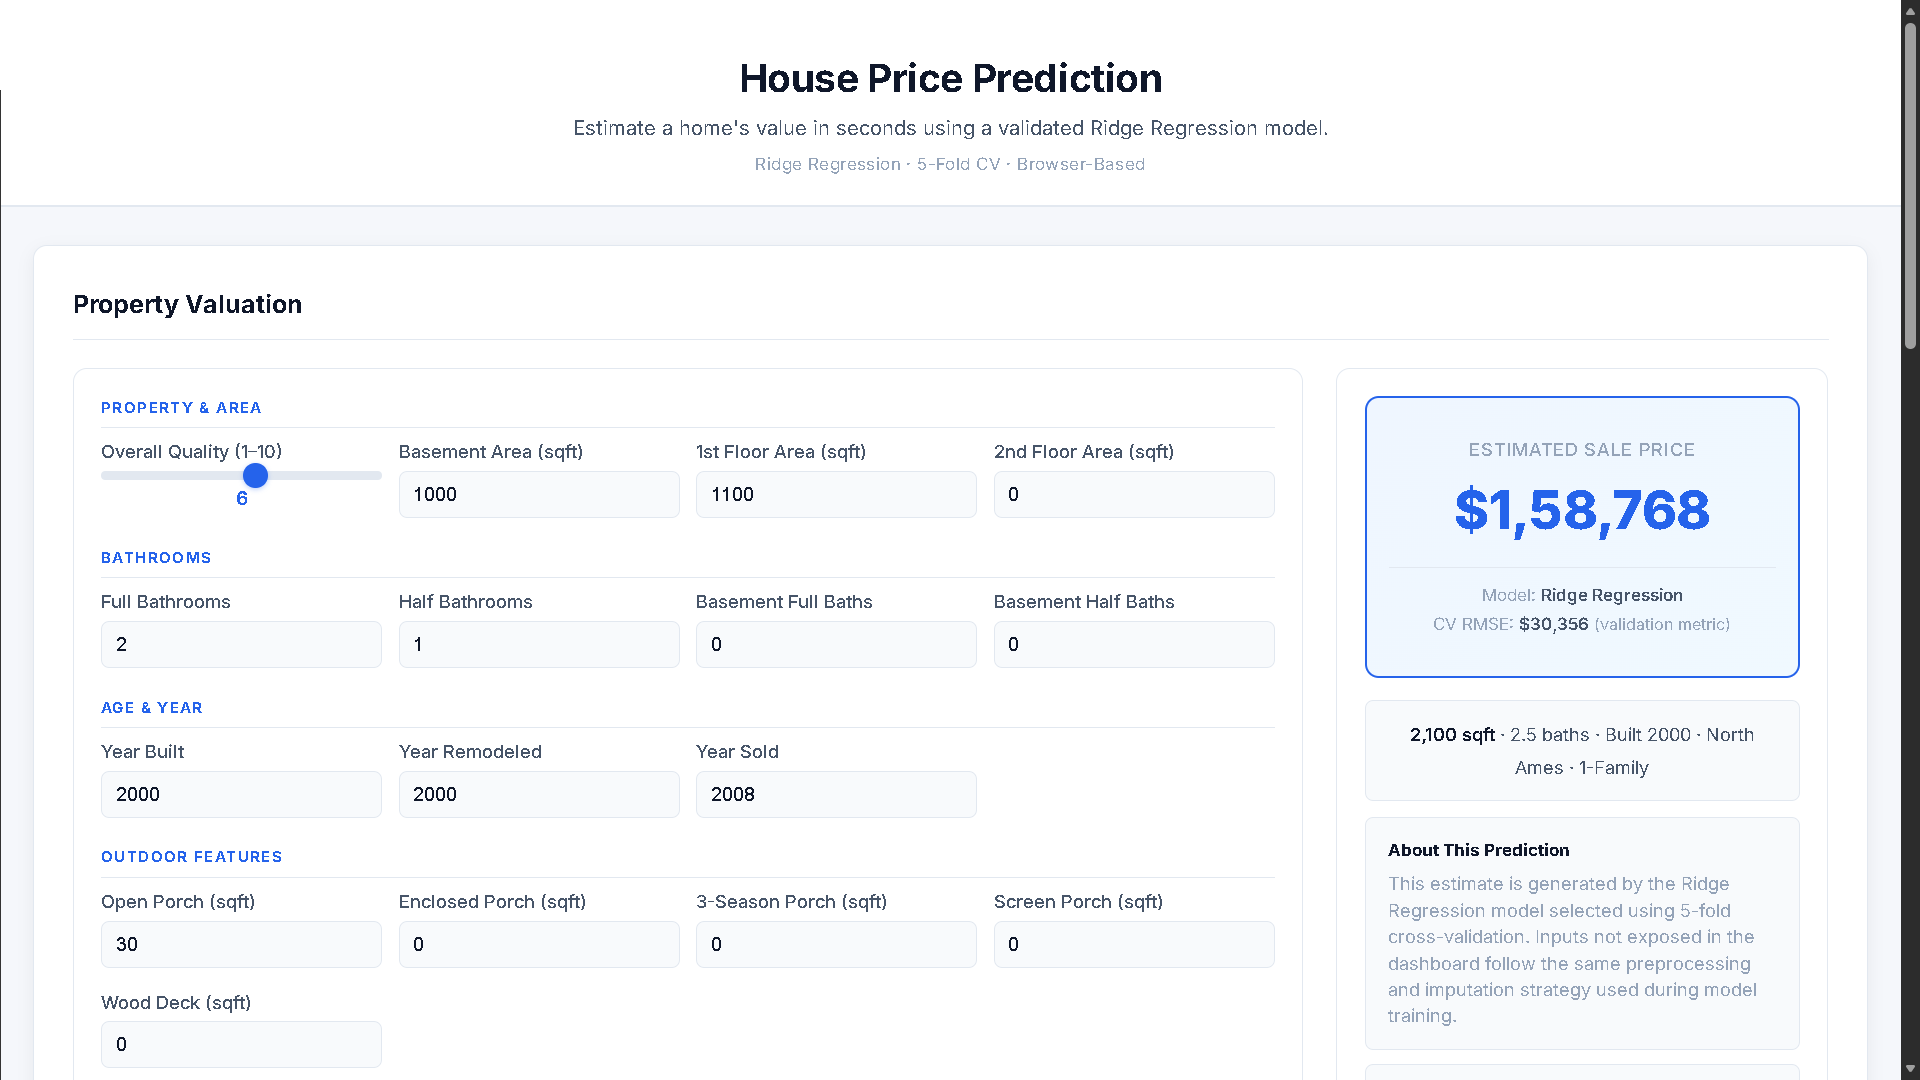
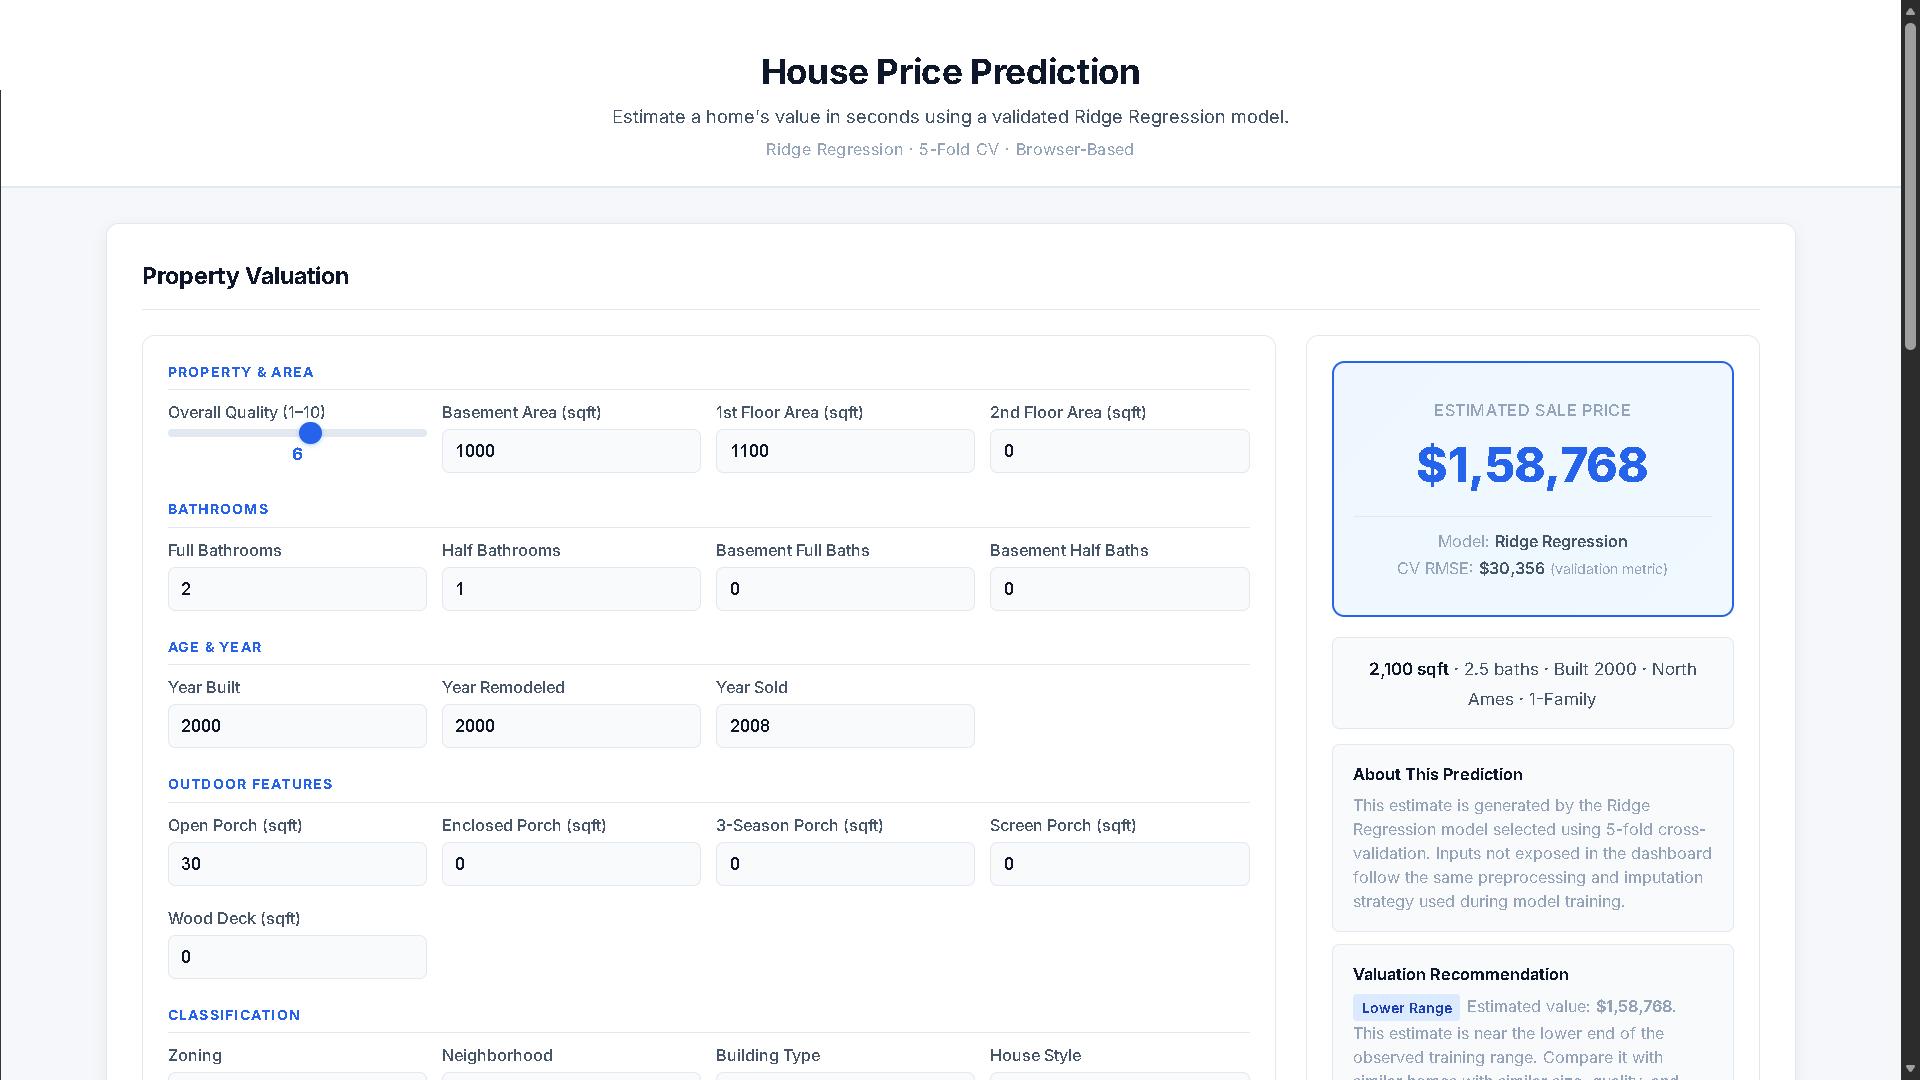
Add Clear Inputs and 4 Demo Scenarios to dashboard
- Add Clear Inputs button: clears all form inputs to empty/neutral state, resets validation and prediction
- Add 4 preset scenarios: Typical Home, Premium Home, Budget/Older, Large Home
- Scenarios populate exposed inputs; user clicks Predict Price to generate estimate
- Stale predictions cleared on scenario load or clear inputs
- Scenario loaded feedback toast
- Responsive design for all breakpoints
- Updated README, executive_summary.md, detailed_project_report.md

diff --git a/docs/app.js b/docs/app.js
@@ -63,6 +63,12 @@ document.addEventListener('DOMContentLoaded', async () => {
         modelData = await resp.json();
         document.getElementById('predictBtn').addEventListener('click', onPredictClick);
         document.getElementById('resetBtn').addEventListener('click', resetToDefaults);
+        document.getElementById('clearBtn').addEventListener('click', clearInputs);
+        document.querySelectorAll('.scenario-btn').forEach(btn => {
+            btn.addEventListener('click', function() {
+                loadScenario(this.dataset.scenario);
+            });
+        });
         setupValidation();
         predict();
         renderModelTable();
@@ -161,6 +167,30 @@ function resetToDefaults() {
         if (el) el.value = val;
     });
     document.getElementById('overallQualVal').textContent = DEFAULT_VALUES.overallQual;
+    clearValidationState();
+    clearPredictionState();
+    clearActiveScenario();
+    predict();
+}
+
+function clearInputs() {
+    const ids = Object.keys(DEFAULT_VALUES);
+    ids.forEach(id => {
+        const el = document.getElementById(id);
+        if (!el) return;
+        if (el.tagName === 'SELECT') {
+            el.selectedIndex = 0;
+        } else {
+            el.value = '';
+        }
+    });
+    document.getElementById('overallQualVal').textContent = '5';
+    clearValidationState();
+    clearPredictionState();
+    clearActiveScenario();
+}
+
+function clearValidationState() {
     Object.keys(VALIDATION_RULES).forEach(id => {
         const errEl = document.getElementById('err-' + id);
         if (errEl) errEl.textContent = '';
@@ -169,8 +199,120 @@ function resetToDefaults() {
     });
     const errorEl = document.getElementById('predictionError');
     if (errorEl) errorEl.style.display = 'none';
-    predict();
+    const toast = document.getElementById('successToast');
+    if (toast) toast.style.display = 'none';
 }
+
+function clearPredictionState() {
+    const priceEl = document.getElementById('predictedPrice');
+    if (priceEl) priceEl.textContent = '$0';
+    const summaryEl = document.getElementById('summaryText');
+    if (summaryEl) summaryEl.textContent = '';
+    const valEl = document.getElementById('valuationRecommendation');
+    if (valEl) valEl.style.display = 'none';
+    const warnEl = document.getElementById('extrapolationWarning');
+    if (warnEl) warnEl.style.display = 'none';
+    ['featTotalSF','featTotalBaths','featAgeAtSale','featRemodAge','featQualArea','featPorch'].forEach(id => {
+        const el = document.getElementById(id);
+        if (el) el.textContent = '0';
+    });
+}
+
+function clearActiveScenario() {
+    document.querySelectorAll('.scenario-btn').forEach(btn => btn.classList.remove('active'));
+    const toast = document.getElementById('scenarioToast');
+    if (toast) toast.style.display = 'none';
+}
+
+function showToast(msg, duration) {
+    const toast = document.getElementById('scenarioToast');
+    if (!toast) return;
+    toast.textContent = msg;
+    toast.style.display = 'block';
+    setTimeout(() => { toast.style.display = 'none'; }, duration || 1800);
+}
+
+const SCENARIOS = {
+    typical: {
+        overallQual: 6, totalBsmtSF: 800, firstFlrSF: 850, secondFlrSF: 800,
+        fullBath: 2, halfBath: 1, bsmtFullBath: 1, bsmtHalfBath: 0,
+        yearBuilt: 1990, yearRemodAdd: 1995, yrSold: 2008,
+        openPorchSF: 30, enclosedPorch: 0, ssnPorch: 0, screenPorch: 0, woodDeckSF: 80,
+        overallCond: 5, moSold: 6,
+        msZoning: 'RL', lotShape: 'Reg', landContour: 'Lvl', lotConfig: 'Inside',
+        neighborhood: 'NAmes', condition1: 'Norm', bldgType: '1Fam', houseStyle: '1Story',
+        overallQualCat: '6', overallCondCat: '5',
+        roofStyle: 'Gable', exterior1st: 'VinylSd', exterior2nd: 'VinylSd',
+        masVnrType: 'None', foundation: 'CBlock', heating: 'GasA', centralAir: 'Y',
+        electrical: 'SBrkr', garageType: 'Attchd', garageFinish: 'RFn',
+        saleType: 'WD', saleCondition: 'Normal'
+    },
+    premium: {
+        overallQual: 9, totalBsmtSF: 1400, firstFlrSF: 1500, secondFlrSF: 1200,
+        fullBath: 3, halfBath: 1, bsmtFullBath: 1, bsmtHalfBath: 0,
+        yearBuilt: 2005, yearRemodAdd: 2008, yrSold: 2008,
+        openPorchSF: 80, enclosedPorch: 0, ssnPorch: 0, screenPorch: 0, woodDeckSF: 200,
+        overallCond: 8, moSold: 6,
+        msZoning: 'RL', lotShape: 'Reg', landContour: 'Lvl', lotConfig: 'Corner',
+        neighborhood: 'NoRidge', condition1: 'Norm', bldgType: '1Fam', houseStyle: '2Story',
+        overallQualCat: '9', overallCondCat: '8',
+        roofStyle: 'Hip', exterior1st: 'HdBoard', exterior2nd: 'HdBoard',
+        masVnrType: 'BrkFace', foundation: 'PConc', heating: 'GasA', centralAir: 'Y',
+        electrical: 'SBrkr', garageType: 'Attchd', garageFinish: 'Fin',
+        saleType: 'WD', saleCondition: 'Normal'
+    },
+    budget: {
+        overallQual: 4, totalBsmtSF: 600, firstFlrSF: 700, secondFlrSF: 0,
+        fullBath: 1, halfBath: 0, bsmtFullBath: 0, bsmtHalfBath: 0,
+        yearBuilt: 1955, yearRemodAdd: 1955, yrSold: 2008,
+        openPorchSF: 0, enclosedPorch: 40, ssnPorch: 0, screenPorch: 0, woodDeckSF: 0,
+        overallCond: 4, moSold: 3,
+        msZoning: 'RM', lotShape: 'Reg', landContour: 'Lvl', lotConfig: 'Inside',
+        neighborhood: 'IDOTRR', condition1: 'Norm', bldgType: '1Fam', houseStyle: '1Story',
+        overallQualCat: '4', overallCondCat: '4',
+        roofStyle: 'Gable', exterior1st: 'AsbShng', exterior2nd: 'AsbShng',
+        masVnrType: 'None', foundation: 'CBlock', heating: 'GasA', centralAir: 'N',
+        electrical: 'SBrkr', garageType: 'Detchd', garageFinish: 'Unf',
+        saleType: 'WD', saleCondition: 'Normal'
+    },
+    large: {
+        overallQual: 7, totalBsmtSF: 1200, firstFlrSF: 1600, secondFlrSF: 1500,
+        fullBath: 3, halfBath: 1, bsmtFullBath: 1, bsmtHalfBath: 1,
+        yearBuilt: 1995, yearRemodAdd: 2000, yrSold: 2008,
+        openPorchSF: 60, enclosedPorch: 0, ssnPorch: 0, screenPorch: 0, woodDeckSF: 150,
+        overallCond: 6, moSold: 7,
+        msZoning: 'RL', lotShape: 'IR1', landContour: 'Lvl', lotConfig: 'Inside',
+        neighborhood: 'Somerst', condition1: 'Norm', bldgType: '1Fam', houseStyle: '2Story',
+        overallQualCat: '7', overallCondCat: '6',
+        roofStyle: 'Gable', exterior1st: 'VinylSd', exterior2nd: 'VinylSd',
+        masVnrType: 'None', foundation: 'PConc', heating: 'GasA', centralAir: 'Y',
+        electrical: 'SBrkr', garageType: 'Attchd', garageFinish: 'RFn',
+        saleType: 'WD', saleCondition: 'Normal'
+    }
+};
+
+function loadScenario(name) {
+    const s = SCENARIOS[name];
+    if (!s) return;
+    Object.entries(s).forEach(([id, val]) => {
+        const el = document.getElementById(id);
+        if (el) el.value = val;
+    });
+    const qualSlider = document.getElementById('overallQual');
+    if (qualSlider) qualSlider.value = s.overallQual;
+    document.getElementById('overallQualVal').textContent = s.overallQual;
+    clearValidationState();
+    clearPredictionState();
+    document.querySelectorAll('.scenario-btn').forEach(btn => btn.classList.remove('active'));
+    const activeBtn = document.querySelector('.scenario-btn[data-scenario="' + name + '"]');
+    if (activeBtn) activeBtn.classList.add('active');
+    showToast('Scenario loaded');
+}
+
+document.getElementById('overallQual').addEventListener('input', function() {
+    document.getElementById('overallQualVal').textContent = this.value;
+    this.setAttribute('aria-valuenow', this.value);
+});
 
 function engineerFeatures(inputs) {
     const totalSF = inputs.firstFlrSF + inputs.secondFlrSF + inputs.totalBsmtSF;

diff --git a/docs/style.css b/docs/style.css
@@ -233,6 +233,69 @@ body {
     outline-offset: 2px;
 }
 
+.clear-btn {
+    padding: 12px 18px;
+    background: var(--bg-input);
+    color: var(--text-secondary);
+    border: 1px solid var(--border);
+    border-radius: var(--radius-sm);
+    font-size: 0.85rem;
+    font-weight: 500;
+    cursor: pointer;
+    transition: background 0.15s, border-color 0.15s;
+    white-space: nowrap;
+    min-height: 46px;
+}
+.clear-btn:hover { background: var(--border); border-color: #CBD5E1; }
+.clear-btn:focus-visible {
+    outline: 2px solid var(--accent-blue);
+    outline-offset: 2px;
+}
+
+.scenario-section {
+    margin-top: 14px;
+    padding: 12px 14px;
+    background: var(--bg-input);
+    border: 1px solid var(--border);
+    border-radius: var(--radius-sm);
+}
+.scenario-label {
+    display: block;
+    font-size: 0.78rem;
+    font-weight: 600;
+    color: var(--text-primary);
+    margin-bottom: 8px;
+}
+.scenario-row {
+    display: flex;
+    gap: 8px;
+    flex-wrap: wrap;
+}
+.scenario-btn {
+    padding: 7px 12px;
+    background: #FFFFFF;
+    color: var(--text-secondary);
+    border: 1px solid var(--border);
+    border-radius: var(--radius-sm);
+    font-size: 0.78rem;
+    font-weight: 500;
+    cursor: pointer;
+    transition: background 0.15s, border-color 0.15s, color 0.15s;
+    white-space: nowrap;
+}
+.scenario-btn:hover { background: #EFF6FF; border-color: #BFDBFE; color: var(--accent-blue); }
+.scenario-btn:focus-visible {
+    outline: 2px solid var(--accent-blue);
+    outline-offset: 2px;
+}
+.scenario-btn.active { background: #EFF6FF; border-color: var(--accent-blue); color: var(--accent-blue); }
+.scenario-toast {
+    margin-top: 8px;
+    font-size: 0.75rem;
+    color: #16A34A;
+    font-weight: 500;
+}
+
 .kpi-card {
     text-align: center;
     padding: 28px 16px;
@@ -527,11 +590,13 @@ body {
     .input-section-label { margin: 14px 0 6px; }
 
     .btn-row { flex-direction: column; }
-    .predict-btn, .reset-btn {
+    .predict-btn, .reset-btn, .clear-btn {
         width: 100%;
         min-height: 48px;
         font-size: 1rem;
     }
+    .scenario-row { gap: 6px; }
+    .scenario-btn { flex: 1 1 calc(50% - 6px); min-height: 38px; }
 
     .kpi-card { padding: 22px 14px; }
     .kpi-value { font-size: 1.9rem; }
@@ -559,7 +624,7 @@ body {
         min-height: 48px;
         font-size: 16px;
     }
-    .predict-btn, .reset-btn { min-height: 50px; }
+    .predict-btn, .reset-btn, .clear-btn { min-height: 50px; }
     .kpi-value { font-size: 1.7rem; }
     .chart-wrapper canvas { max-height: 240px !important; }
 }

diff --git a/docs/index.html b/docs/index.html
@@ -219,11 +219,22 @@
                             </select>
                         </div>
                     </div>
+                    <div class="scenario-section">
+                        <span class="scenario-label">Try a Scenario</span>
+                        <div class="scenario-row">
+                            <button class="scenario-btn" data-scenario="typical" type="button">Typical Home</button>
+                            <button class="scenario-btn" data-scenario="premium" type="button">Premium Home</button>
+                            <button class="scenario-btn" data-scenario="budget" type="button">Budget / Older</button>
+                            <button class="scenario-btn" data-scenario="large" type="button">Large Home</button>
+                        </div>
+                        <div id="scenarioToast" class="scenario-toast" style="display:none;" aria-live="polite">Scenario loaded</div>
+                    </div>
                     <div class="btn-row">
                         <button id="predictBtn" class="predict-btn" type="button" aria-label="Predict price">
                             <span class="btn-label">Predict Price</span>
                             <span class="btn-loading" aria-hidden="true">Predicting&hellip;</span>
                         </button>
+                        <button id="clearBtn" class="clear-btn" type="button" aria-label="Clear all inputs">Clear Inputs</button>
                         <button id="resetBtn" class="reset-btn" type="button" aria-label="Reset to example values">Reset Example</button>
                     </div>
                 </div>

diff --git a/README.md b/README.md
@@ -21,6 +21,8 @@
 **House Price Prediction using Regression Models** is a portfolio-grade ML platform that predicts residential property sale prices using supervised regression on the Ames Housing Dataset (1,460 records, 79 predictors).
 It achieves a **CV RMSE of $30,356** and **R² of 0.835** on the held-out test set (10/10 tests passing) while operating as a **serverless GitHub Pages deployment** with **zero-cost static hosting** and **100% in-browser inference**.
 
+The dashboard features **4 preset demo scenarios** (Typical Home, Premium Home, Budget/Older, Large Home) for quick exploration, **Clear Inputs** for form reset, and **Reset Example** for deterministic example values.
+
 [**Live Dashboard**](https://girishshenoy16.github.io/House-Price-Prediction-using-Regression-Models/) | [**Project Report**](reports/detailed_project_report.md) | [**Executive Summary**](reports/executive_summary.md)
 
 </div>
@@ -101,6 +103,8 @@ This system predicts residential property sale prices from structural and catego
 | Section              | Features                                                                                                                              |
 |----------------------|---------------------------------------------------------------------------------------------------------------------------------------|
 | **Predict Price**    | Interactive input form, inline validation, loading state, dynamic property summary, engineered feature display, extrapolation warning, valuation recommendation |
+| **Try a Scenario**   | 4 preset scenarios (Typical Home, Premium Home, Budget/Older, Large Home) with "Scenario loaded" feedback                              |
+| **Actions**          | Predict Price (primary), Clear Inputs (secondary), Reset Example (secondary)                                                          |
 | **Model Comparison** | 5-model performance table with selected model badge, CV and holdout metrics                                                           |
 | **Visualizations**   | Actual vs Predicted scatter (292 Ridge holdout points), Price vs Living Area with trend line, Top Ridge Feature Effects bar chart     |
 

diff --git a/reports/detailed_project_report.md b/reports/detailed_project_report.md
@@ -122,6 +122,26 @@ A 3-section Power BI-style executive dashboard deployed via GitHub Pages:
 2. **Model Performance** — Benchmark comparison table and Actual vs Predicted scatter plot
 3. **Housing Insights** — Feature importance chart and price metrics visualization
 
+### Demo Scenarios
+
+Four preset scenarios enable quick demonstration of model behavior across different property profiles:
+
+| Scenario | Purpose | Key Characteristics |
+|----------|---------|---------------------|
+| **Typical Home** | Mid-range family property | Overall Quality 6, moderate area, 2 full baths, built 1990 |
+| **Premium Home** | Higher quality & larger space | Overall Quality 9, large area, 3 full baths, built 2005 |
+| **Budget / Older** | Lower-value older profile | Overall Quality 4, smaller area, 1 full bath, built 1955 |
+| **Large Home** | Size sensitivity example | Overall Quality 7, 4,300 sqft total, built 1995 |
+
+Scenarios populate all exposed inputs. Users click **Predict Price** to generate the estimate. Scenario selection clears stale predictions and validation state.
+
+### Clear Inputs vs Reset Example
+
+| Action | Behavior |
+|--------|----------|
+| **Clear Inputs** | Clears all form inputs to empty state, resets validation/errors/prediction to neutral |
+| **Reset Example** | Restores the deterministic realistic example property and triggers a prediction |
+
 ### Valuation Recommendation
 
 A compact decision-support component that provides context about the prediction based on where it falls within the observed training-price range ($34,900–$755,000). The recommendation is generated deterministically from the browser prediction and training metadata — no external data or backend required.

diff --git a/reports/executive_summary.md b/reports/executive_summary.md
@@ -45,7 +45,7 @@ Browser-side JavaScript inference
 - **Platform:** GitHub Pages (`/docs` directory)
 - **Inference:** Client-side JavaScript, no backend required
 - **Model artifact:** `docs/model_export.json` (single authoritative export)
-- **Dashboard sections:** Property Valuation (with Valuation Recommendation), Model Performance, Housing Insights
+- **Dashboard sections:** Property Valuation (with Valuation Recommendation), Try a Scenario (4 presets), Model Performance, Housing Insights
 
 ## Technical Highlights
 
@@ -65,7 +65,7 @@ Browser-side JavaScript inference
 |------|---------|
 | `main.py` | Single-command pipeline orchestrator |
 | `docs/index.html` | Dashboard UI |
-| `docs/app.js` | Client-side inference engine + valuation recommendation |
+| `docs/app.js` | Client-side inference engine + valuation recommendation + demo scenarios |
 | `docs/model_export.json` | Model artifact for browser |
 | `tests/test_pipeline.py` | Unit tests (10 tests) |
 | `tests/test_js_parity.py` | 5-case Python ↔ JS parity suite |
